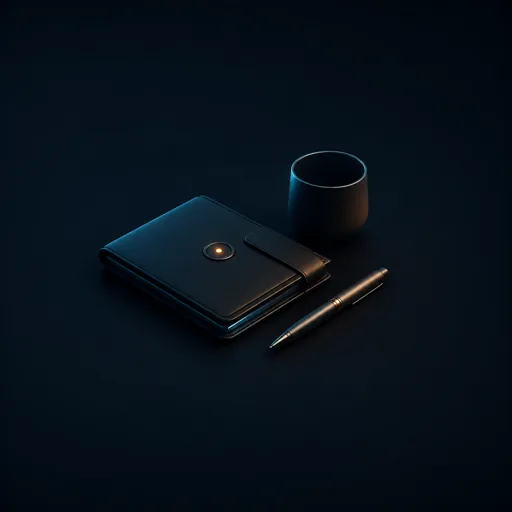
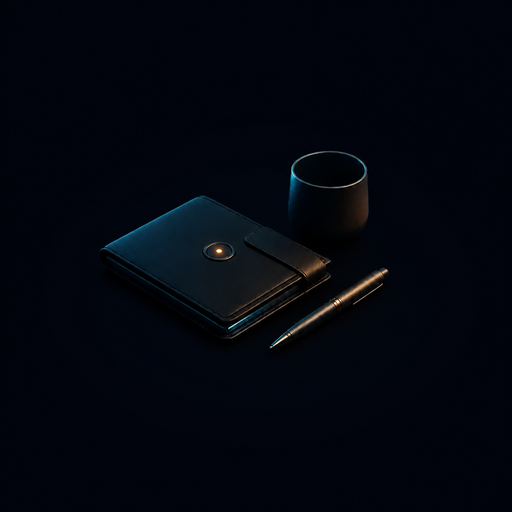
fix(chat): blend welcome art into theme canvases

diff --git a/app/src/features/chat/WarmChatWelcome.test.tsx b/app/src/features/chat/WarmChatWelcome.test.tsx
@@ -1,6 +1,7 @@
 import { cleanup, fireEvent, render, screen } from '@testing-library/react';
 import { readFileSync } from 'node:fs';
 import { resolve } from 'node:path';
+import sharp from 'sharp';
 import { afterEach, describe, expect, it, vi } from 'vitest';
 import { WarmChatWelcome } from './WarmChatWelcome';
 
@@ -129,7 +130,38 @@ describe('WarmChatWelcome', () => {
       /\.warm-chat-welcome__art\s*\{[\s\S]*?mask-image:\s*radial-gradient\([\s\S]*?transparent\s+88%\s*\)/u,
     );
     expect(welcomeCss).toMatch(
-      /\[data-chat-welcome-theme='monochrome'\]\s+\.warm-chat-welcome__art\s*\{[\s\S]*?grayscale\(1\)/u,
+      /\[data-chat-welcome-theme='monochrome'\]\s+\.warm-chat-welcome__art\s*\{[\s\S]*?filter:\s*none/u,
     );
+  });
+
+  it.each([
+    ['default', '#2a2018'],
+    ['monochrome', '#0a0b0f'],
+    ['jarvis', '#060911'],
+  ])('matches the %s artwork perimeter to its exact chat canvas', async (theme, hex) => {
+    const asset = resolve(__dirname, `../../../public/assets/themes/${theme}/chat-welcome.webp`);
+    const { data, info } = await sharp(asset)
+      .ensureAlpha()
+      .raw()
+      .toBuffer({ resolveWithObject: true });
+    const expected = [1, 3, 5].map((offset) => Number.parseInt(hex.slice(offset, offset + 2), 16));
+    const samples = [
+      [0, 0],
+      [info.width - 1, 0],
+      [0, info.height - 1],
+      [info.width - 1, info.height - 1],
+      [Math.floor(info.width / 2), 0],
+      [Math.floor(info.width / 2), info.height - 1],
+    ];
+
+    expect(info.width).toBe(512);
+    expect(info.height).toBe(512);
+    for (const [x, y] of samples) {
+      const index = (y * info.width + x) * info.channels;
+      const actual = [data[index], data[index + 1], data[index + 2]];
+      actual.forEach((channel, channelIndex) => {
+        expect(Math.abs((channel ?? 0) - (expected[channelIndex] ?? 0))).toBeLessThanOrEqual(8);
+      });
+    }
   });
 });

diff --git a/app/src/features/chat/chat-welcome.css b/app/src/features/chat/chat-welcome.css
@@ -61,17 +61,17 @@ html:not([data-theme='warm']) .warm-chat-welcome__art {
 
 html:not([data-theme='warm']) [data-chat-welcome-theme='default'] .warm-chat-welcome__art {
   opacity: 0.78;
-  filter: saturate(0.76) contrast(0.92) brightness(0.9);
+  filter: none;
 }
 
 html:not([data-theme='warm']) [data-chat-welcome-theme='jarvis'] .warm-chat-welcome__art {
   opacity: 0.82;
-  filter: saturate(0.82) contrast(0.94) brightness(0.88);
+  filter: none;
 }
 
 html:not([data-theme='warm']) [data-chat-welcome-theme='monochrome'] .warm-chat-welcome__art {
   opacity: 0.72;
-  filter: grayscale(1) contrast(0.9) brightness(0.92);
+  filter: none;
 }
 
 html:not([data-theme='warm']) .warm-chat-welcome h1 {
